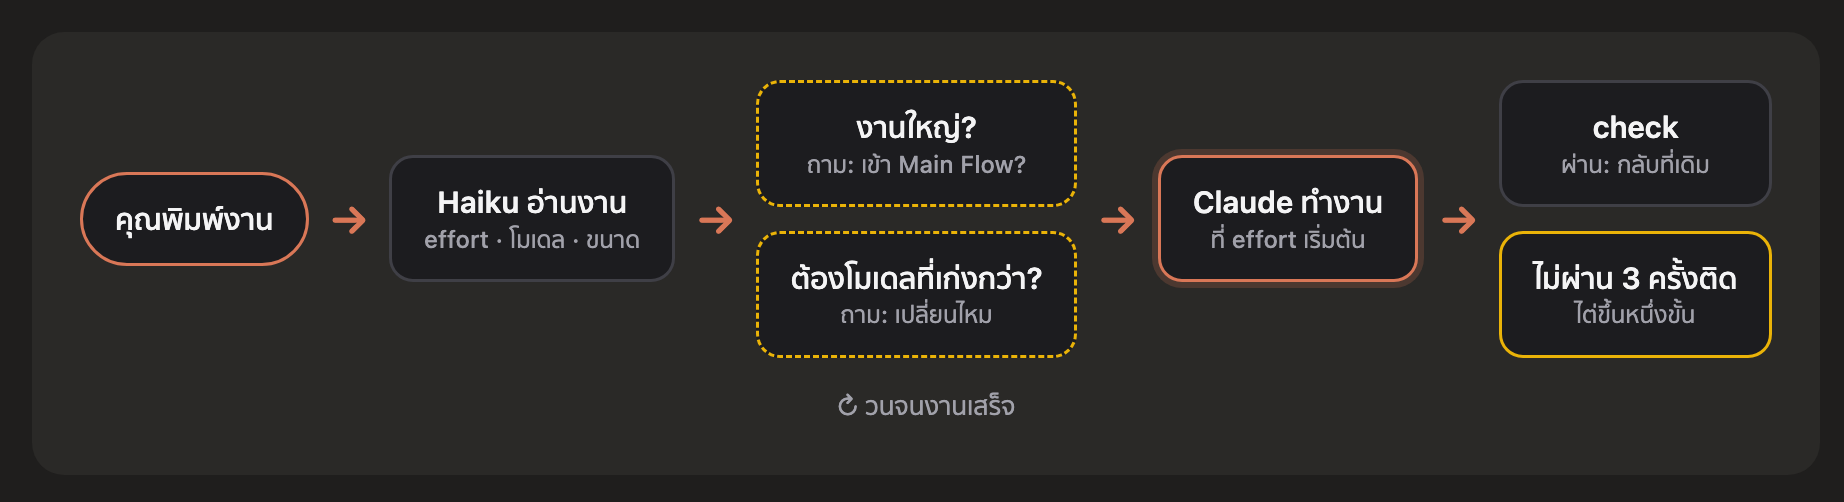
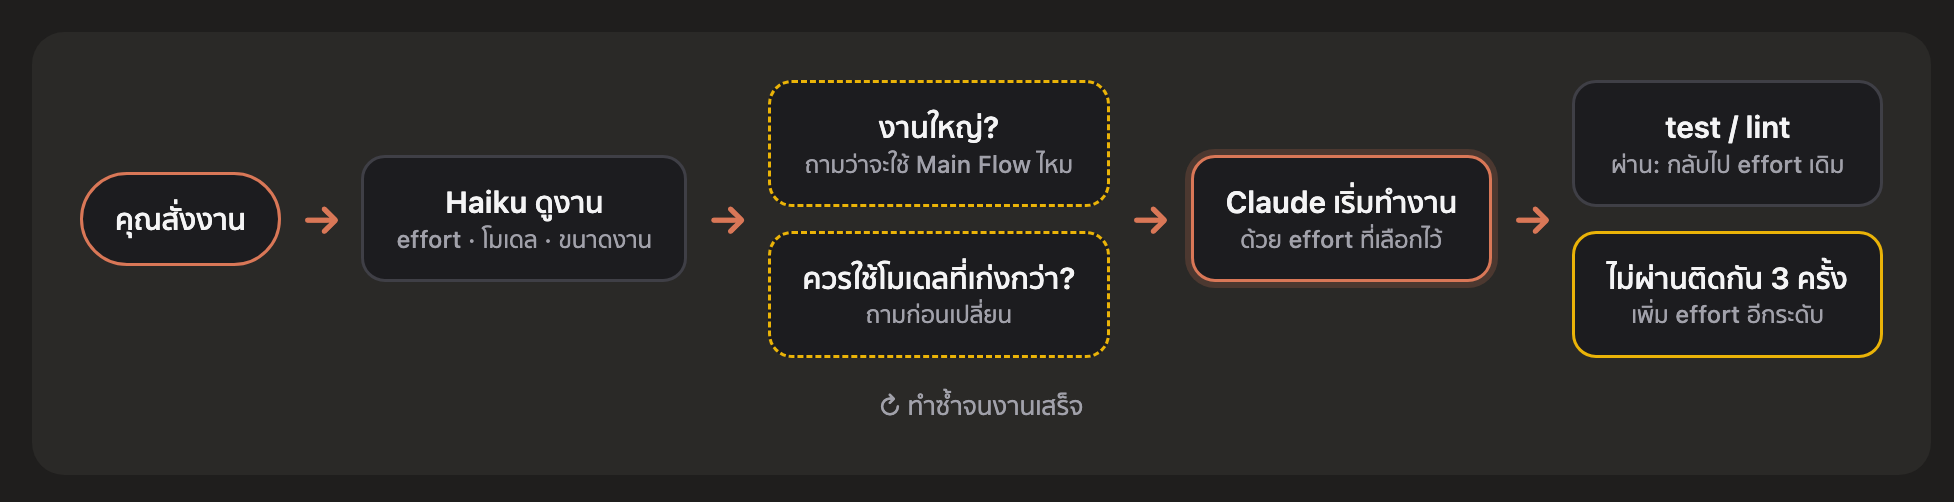
docs: rewrite the Thai README in plainer Thai
Everyday wording in place of literal translations, in the README and the Thai labels of
its images.

diff --git a/README.th.md b/README.th.md
@@ -5,8 +5,8 @@
 <h1 align="center">open-effort</h1>
 
 <p align="center">
-  ให้ Claude คิดหนักเท่าที่งานต้องการ ไม่มากไป ไม่น้อยไป<br>
-  mod ของ Claude Code ที่ปรับ effort ให้พอดีกับงาน และเปลี่ยนไปใช้โมเดลที่เก่งกว่าเฉพาะตอนจำเป็น
+  ให้ Claude ใช้ effort ให้เหมาะกับงาน ไม่ต้องคอยปรับเอง<br>
+  mod สำหรับ Claude Code ที่เลือก effort ให้ตามงาน และเปลี่ยนไปใช้โมเดลที่เก่งกว่าเมื่อจำเป็นเท่านั้น
 </p>
 
 <p align="center">
@@ -14,20 +14,20 @@
 </p>
 
 <p align="center">
-  <img src="docs/images/band.png" width="760" alt="แถบเหนือช่องพิมพ์: สิ่งที่ Haiku อ่าน, effort ที่ไต่ขึ้นเป็น high บน Opus 5.5 และ sub-agent 3 ตัวที่กำลังทำงาน">
+  <img src="docs/images/band.png" width="760" alt="แถบเหนือช่องแชท แสดงผลที่ Haiku ประเมิน, effort ที่เพิ่มเป็น high บน Opus 5.5 และ sub-agent 3 ตัวที่กำลังทำงาน">
 </p>
 
-## ทำอะไรได้
+## ฟีเจอร์
 
-- 🎯 **effort พอดีกับงาน:** Haiku อ่านงานใหม่แต่ละครั้ง แผนชัดเริ่มที่ `low` งานยากเริ่มที่ `xhigh`
-- 📈 **ไต่ขึ้นเมื่องานติด:** check ไม่ผ่าน 3 ครั้งติด effort จะขึ้นทีละขั้น จนไป Fable 5.1 แล้วถามคุณ
-- 🧠 **เลือกโมเดล โดยถามคุณก่อน:** งานที่ต้องใช้โมเดลที่เก่งกว่า จะถามคุณครั้งเดียวก่อนเปลี่ยน
-- 🗺 **ใช้ Main Flow ของ Matt Pocock ได้:** ตั้งแต่ grill ถึง retro แต่ละขั้นและแต่ละ ticket มี effort ของตัวเอง
-- 👀 **บอกเหตุผลให้เห็น:** มีแถบเหนือช่องพิมพ์ และ pane ที่มีสวิตช์ ธีมสี และประวัติ
+- 🎯 **เลือก effort ให้อัตโนมัติ:** Haiku จะดูงานที่คุณสั่งก่อน งานง่ายใช้ `low` งานยากใช้ `xhigh`
+- 📈 **งานติดก็เพิ่ม effort ให้เอง:** ถ้า test หรือ lint ไม่ผ่านติดกัน 3 ครั้ง จะเพิ่ม effort ทีละระดับ ถ้ายังไม่ผ่านจะสลับไปใช้ Fable 5.1 และสุดท้ายจะหยุดถามคุณ
+- 🧠 **ถามก่อนเปลี่ยนโมเดล:** ถ้างานควรใช้โมเดลที่เก่งกว่า Claude จะถามคุณก่อนหนึ่งครั้ง
+- 🗺 **รองรับ Main Flow ของ Matt Pocock:** ตั้งแต่ grill จนถึง retro แต่ละขั้นตอนและแต่ละ ticket ใช้ effort ที่ต่างกันได้
+- 👀 **เห็นตลอดว่าใช้อะไรอยู่:** แถบเหนือช่องแชทบอก effort โมเดล และเหตุผล ส่วน pane ด้านข้างไว้เปิดปิด เปลี่ยนธีม และดูประวัติ
 
 ## ติดตั้ง
 
-**แอป desktop:** **+** ข้างช่องพิมพ์ → **Plugins** → **Add marketplace** → `JakkapatB/open-effort` → **Add plugin**
+**แอป desktop:** กด **+** ข้างช่องแชท → **Plugins** → **Add marketplace** → ใส่ `JakkapatB/open-effort` → **Add plugin**
 
 **terminal:**
 
@@ -35,108 +35,108 @@
 /plugin install open-effort --marketplace JakkapatB/open-effort
 ```
 
-ไม่ต้องตั้งค่าอะไร ติดตั้งเสร็จแถบขึ้นทันที
+ติดตั้งเสร็จใช้ได้เลย ไม่ต้องตั้งค่าเพิ่ม
 
-## ทำงานยังไง
+## หลักการทำงาน
 
 <p align="center">
-  <img src="docs/images/flow-th.png" width="760" alt="คุณพิมพ์งาน, Haiku อ่านงาน, Claude ถามเรื่องงานใหญ่หรือโมเดลที่เก่งกว่า, Claude ทำงานที่ effort เริ่มต้น และ check ไม่ผ่าน 3 ครั้งติดจะไต่ขึ้นหนึ่งขั้น">
+  <img src="docs/images/flow-th.png" width="760" alt="คุณสั่งงาน, Haiku ดูงาน, ถ้างานใหญ่หรือควรใช้โมเดลที่เก่งกว่า Claude จะถามก่อน, Claude เริ่มทำงานด้วย effort ที่เลือกไว้, ถ้า test ไม่ผ่านติดกัน 3 ครั้งจะเพิ่ม effort อีกระดับ">
 </p>
 
-### บันได effort
+### ลำดับการเพิ่ม effort
 
 <p align="center">
-  <img src="docs/images/ladder-th.png" width="640" alt="low, medium, high, xhigh แล้ว Fable 5.1 ที่ high, xhigh, max แล้ว Claude ถามคุณ">
+  <img src="docs/images/ladder-th.png" width="640" alt="low, medium, high, xhigh แล้วสลับไป Fable 5.1 ที่ high, xhigh, max ถ้ายังไม่ผ่าน Claude จะถามคุณ">
 </p>
 
-check ผ่านเมื่อไหร่ effort กลับไปที่เดิม
+พอ test ผ่าน effort จะกลับไปเท่าเดิม
 
 <p align="center">
-  <img src="docs/images/states-th.png" width="760" alt="แถบในแต่ละสถานะ: ได้คะแนน, check ไม่ผ่าน, ไต่ขึ้น, Fable 5.1 และหยุดที่สุดบันได">
+  <img src="docs/images/states-th.png" width="760" alt="หน้าตาของแถบในแต่ละสถานะ: เลือก effort แล้ว, test ไม่ผ่าน, เพิ่ม effort, สลับไป Fable 5.1 และหยุดถามคุณ">
 </p>
 
 ### effort เริ่มต้น
 
-| Haiku อ่านได้ว่า | effort |
+| Haiku ประเมินว่า | effort |
 |---|---|
-| แผนชัด (เปลี่ยนชื่อ, ทำตามแบบที่รู้อยู่แล้ว) | `low` |
-| รู้เป้าหมาย แต่ต้องคิดวิธี | `medium` |
-| แผนยังไม่ชัด | `high` |
-| ยากพิเศษ (concurrency, ย้ายข้อมูล) | `xhigh` |
-| เสี่ยง หรือ Haiku ไม่แน่ใจ | อย่างน้อย `medium` |
+| รู้ชัดว่าต้องทำอะไร (เช่น เปลี่ยนชื่อ, ทำตามแบบที่มีอยู่แล้ว) | `low` |
+| รู้เป้าหมาย แต่ต้องคิดวิธีทำ | `medium` |
+| ยังไม่รู้ชัดว่าจะทำยังไง | `high` |
+| ยากเป็นพิเศษ (เช่น concurrency, ย้ายข้อมูล) | `xhigh` |
+| มีความเสี่ยง หรือ Haiku ไม่มั่นใจ | ไม่ต่ำกว่า `medium` |
 
-mod ไม่เลือก `max` เอง
+mod จะไม่เลือก `max` ให้เอง
 
 ### Main Flow ของ Matt Pocock
 
 <p align="center">
-  <img src="docs/images/main-flow.png" width="760" alt="เส้น Main Flow ที่ stage implement กำลังทำ ticket 03 ที่ high">
+  <img src="docs/images/main-flow.png" width="760" alt="Main Flow อยู่ที่ขั้นตอน implement กำลังทำ ticket 03 ด้วย effort high">
 </p>
 
-| stage | grill | spec | tickets | implement | review | retro |
+| ขั้นตอน | grill | spec | tickets | implement | review | retro |
 |---|---|---|---|---|---|---|
 | effort | `high` | `high` | `medium` | `high` | `xhigh` | `medium` |
 
-- flow ใช้ **Opus 5.5** เป็นค่าเริ่มต้น เปลี่ยนเป็น **Fable 5.1** หรือ **โมเดลของ session** ได้ใน pane
-- แต่ละ ticket มี `Model:` และ `Effort:` ของตัวเอง sub-agent ที่ทำ ticket ใช้ทั้งสองค่า
-- ต้องติดตั้ง [skill ของ Matt Pocock](https://github.com/mattpocock/skills) pane จะบอกว่าขาดตัวไหน
+- Main Flow ใช้ **Opus 5.5** เป็นค่าเริ่มต้น เปลี่ยนเป็น **Fable 5.1** หรือใช้ **โมเดลเดียวกับ session** ได้ใน pane
+- แต่ละ ticket กำหนด `Model:` และ `Effort:` ของตัวเองได้ ถ้าส่งให้ sub-agent ทำ จะใช้ค่าตาม ticket
+- ต้องติดตั้ง [skill ของ Matt Pocock](https://github.com/mattpocock/skills) ก่อน ถ้ายังไม่ครบ pane จะบอกว่าขาดตัวไหน
 
-## pane
+## Pane
 
-เปิดด้วย `/open-effort` หรือกด **≡** บนแถบ
+เปิดด้วยคำสั่ง `/open-effort` หรือกดปุ่ม **≡** บนแถบ
 
 <p align="center">
-  <img src="docs/images/history.png" width="520" alt="กราฟประวัติ: effort ที่แต่ละ turn เริ่มและไต่ขึ้นไป และจำนวน turn แยกตามโมเดลกับ effort">
+  <img src="docs/images/history.png" width="520" alt="กราฟประวัติ แสดง effort ตอนเริ่มและตอนที่เพิ่มขึ้นของแต่ละ turn และจำนวน turn แยกตามโมเดลกับ effort">
 </p>
 
-- **เปิดหรือปิด** ในโปรเจกต์นี้ (`/open-effort on|off` ได้ผลเหมือนกัน)
-- **Main Flow:** เปิดหรือปิด และเลือกโมเดล
+- **เปิด/ปิด** สำหรับโปรเจกต์นี้ (หรือพิมพ์ `/open-effort on` / `off`)
+- **Main Flow:** เปิด/ปิด และเลือกโมเดลที่จะใช้
 - **ภาษา:** อัตโนมัติ, ไทย หรือ English
-- **ธีมสี:** Claude, มะนาว, ฟ้า หรือชมพู
+- **ธีมสี:** Claude, Lime, Ocean หรือ Rose
 - **ประวัติ:** 500 turn ล่าสุดของโปรเจกต์
 
 <p align="center">
-  <img src="docs/images/themes.png" width="640" alt="4 ธีม: Claude, Lime, Ocean และ Rose">
+  <img src="docs/images/themes.png" width="640" alt="ธีมสี 4 แบบ: Claude, Lime, Ocean และ Rose">
 </p>
 
 <details>
 <summary><b>รายละเอียดเพิ่มเติม</b></summary>
 
-### หนึ่งงาน หนึ่งโมเดล
+### งานหนึ่งใช้โมเดลเดียว
 
-งานหนึ่งใช้โมเดลเดียวตั้งแต่ต้นจนจบ เพื่อให้ prompt cache ไม่เสีย โมเดลเปลี่ยนเฉพาะตอนคุณตกลงใช้โมเดลที่เก่งกว่าตอนเริ่มงาน, ตอนเข้า Main Flow หรือตอนไต่เกิน `xhigh` ไป Fable 5.1 และไม่ลดลงเอง
+งานหนึ่งจะใช้โมเดลเดิมตั้งแต่ต้นจนจบ เพื่อไม่ให้ prompt cache หาย โมเดลจะเปลี่ยนแค่ 3 กรณี คือ คุณตกลงเปลี่ยนตอนเริ่มงาน, ตอนเริ่ม Main Flow และตอนที่ effort เกิน `xhigh` จนต้องสลับไป Fable 5.1 และจะไม่ลดโมเดลลงเอง
 
 ### โมเดลกับ effort
 
-โมเดลรุ่นปัจจุบันรองรับ effort ครบ 5 ระดับ Opus และ Sonnet 4.6 ไม่มี `xhigh`, Opus 4.5 สูงสุดที่ `high` ส่วน Sonnet 4.5 และ Haiku 4.5 ไม่รองรับ effort ระดับที่โมเดลไม่รองรับจะใช้ระดับรองลงมาแทน
+โมเดลรุ่นปัจจุบันรองรับ effort ครบทั้ง 5 ระดับ ส่วน Opus และ Sonnet 4.6 ไม่มี `xhigh`, Opus 4.5 สูงสุดแค่ `high` และ Sonnet 4.5 กับ Haiku 4.5 ไม่รองรับ effort เลย ถ้าโมเดลไม่รองรับระดับไหน จะใช้ระดับที่ต่ำกว่าถัดลงมาแทน
 
-### อะไรนับเป็น check
+### คำสั่งแบบไหนที่นับ
 
-test, typecheck, build และ lint (JavaScript/TypeScript, Python, Go, Rust, test runner ของ Node, make) นับเฉพาะเมื่อผลของ check คือผลของทั้งคำสั่ง ไม่นับเมื่อต่อด้วย `;` หรือ `||`, ส่งต่อผ่าน `|` โดยไม่มี `set -o pipefail` หรือรันเบื้องหลัง
+นับ test, typecheck, build และ lint (JavaScript/TypeScript, Python, Go, Rust, test ของ Node และ make) โดยนับเฉพาะเมื่อผลของคำสั่งนั้นเป็นผลสุดท้ายของทั้งบรรทัด ถ้ามี `;` หรือ `||` ต่อท้าย, ส่งต่อด้วย `|` โดยไม่ได้ตั้ง `set -o pipefail` หรือรันเป็น background จะไม่นับ
 
 ### sub-agent
 
 | sub-agent | โมเดล · effort |
 |---|---|
 | Explore | Haiku · `low` |
-| Plan | โมเดลของ session · `high` |
-| general-purpose | โมเดลของ session · effort เท่างานหลัก |
-| แบบที่คุณสร้างเอง | ไม่แตะ |
+| Plan | โมเดลเดียวกับ session · `high` |
+| general-purpose | โมเดลเดียวกับ session · effort เท่ากับงานหลัก |
+| แบบที่คุณสร้างเอง | ไม่ไปยุ่ง |
 
 ### ข้อมูลและความเป็นส่วนตัว
 
-- ทุกอย่างเก็บใน plugin store ของ Claude Code ในเครื่องคุณ
-- ประวัติไม่เก็บข้อความที่คุณพิมพ์ เก็บแค่เวลา, effort, ผลการอ่าน, จำนวนครั้ง และชื่อโมเดล
-- mod ไม่เรียกเครือข่ายเอง เรียกโมเดลอย่างเดียวคือให้ Haiku อ่านงานใหม่ (พร้อมท้ายข้อความล่าสุดของ Claude เมื่อมีงานค้าง) หรืออ่าน ticket ที่ไม่มีบรรทัด `Model:` และ `Effort:` ผ่าน Claude Code
-- อ่านไฟล์เฉพาะ ticket (`<feature>/issues/NN-*.md`) ใน stage implement และไม่เขียนไฟล์ใดๆ
-- เพิ่มข้อความถึง Claude ในบทสนทนา และลงทะเบียน tool 3 ตัว คือ `stage`, `model` และ `report`
+- ข้อมูลทั้งหมดเก็บไว้ในเครื่องคุณ ใน plugin store ของ Claude Code
+- ประวัติไม่ได้เก็บข้อความที่คุณพิมพ์ เก็บแค่เวลา, effort, ผลประเมิน, จำนวนครั้ง และชื่อโมเดล
+- mod ไม่ได้ส่งข้อมูลออกไปไหนเอง สิ่งเดียวที่ส่งคือให้ Haiku ประเมินงานใหม่ (รวมข้อความท้ายๆ ของ Claude ถ้ามีงานค้างอยู่) หรือประเมิน ticket ที่ไม่ได้ระบุ `Model:` และ `Effort:` ซึ่งส่งผ่าน Claude Code ตามปกติ
+- อ่านไฟล์แค่ ticket (`<feature>/issues/NN-*.md`) ตอนอยู่ในขั้นตอน implement และไม่เขียนไฟล์ใดๆ
+- จะเพิ่มข้อความแนะนำให้ Claude ในแชท และเพิ่ม tool 3 ตัว คือ `stage`, `model` และ `report`
 
 ### ข้อจำกัด
 
-- API ของ mod ยังใหม่ใน Claude Code และอาจเปลี่ยนได้
-- เปลี่ยนโมเดลของงาน ทำให้ prompt cache ของงานนั้นเริ่มใหม่
-- ถ้า Haiku อ่านช้า คะแนนจะมาระหว่าง turn request แรกๆ จึงใช้ effort ของ session
-- ข้อความที่ส่งถึง Claude เป็นคำแนะนำ mod ไม่ได้บังคับ
+- API สำหรับ mod ของ Claude Code ยังใหม่อยู่ อาจมีการเปลี่ยนแปลง
+- ถ้าเปลี่ยนโมเดลของงาน prompt cache ของงานนั้นจะต้องเริ่มใหม่
+- ถ้า Haiku ตอบช้า request แรกๆ ของ turn นั้นจะใช้ effort ของ session ไปก่อน
+- ข้อความที่ส่งให้ Claude เป็นแค่คำแนะนำ ไม่ได้บังคับ
 
 </details>
 
@@ -148,14 +148,14 @@ claude plugin test .
 claude plugin validate .
 ```
 
-ดูตารางโครงสร้างโค้ดได้ใน [README ภาษาอังกฤษ](README.md) พัฒนาและทดสอบบน Claude Code 2.1.308
+โครงสร้างโค้ดดูได้ที่ [README ภาษาอังกฤษ](README.md) พัฒนาและทดสอบบน Claude Code 2.1.308
 
 </details>
 
 ## เครดิต
 
-Main Flow และ skill เป็นของ [Matt Pocock](https://github.com/mattpocock/skills) (MIT) open-effort ไม่ได้เกี่ยวข้องกับ Matt Pocock หรือ Anthropic
+Main Flow และ skill เป็นผลงานของ [Matt Pocock](https://github.com/mattpocock/skills) (MIT) โปรเจกต์นี้ไม่ได้เกี่ยวข้องกับ Matt Pocock หรือ Anthropic
 
-## ไลเซนส์
+## License
 
 [MIT](LICENSE)
